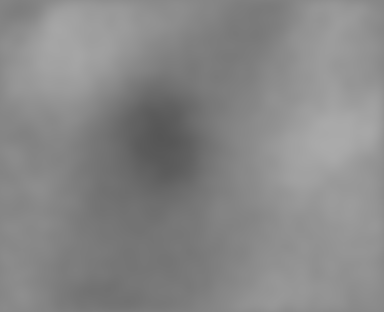
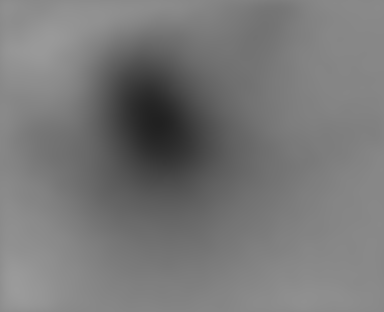
code for response on black background
overlay of response on black background. Lines 203 - 216.

Changed region(s): [[0.1562, 0.0865, 1.0, 0.6635]]

diff --git a/OpticalImaging/analyseninad.m b/OpticalImaging/analyseninad.m
@@ -159,8 +159,8 @@ if join_manual_rois
         jointroi = jointroi | roi{i};
     end
 else
-    jointroi = ( spatialfilter(imresp,2,'pixel')  >0.3)';
-    %jointroi = smoothen(jointroi,5)>0.5;
+    jointroi = ( spatialfilter(imresp,2,'pixel')  >0.4)';
+    %jointroi = smoothen(jointroi,5)>0.6;
     % figure;imagesc(jointroi);
 end
 
@@ -197,3 +197,22 @@ refim(:,:,2)=refim(:,:,2) + data(:,:,2).*jointroi.*imresp';
 refim(:,:,3)=refim(:,:,3) + data(:,:,3).*jointroi.*imresp';
 figure
 image(refim/255);
+
+
+% response only, with black background
+refim=zeros(size(refim));
+jointroi = double(jointroi);
+data = double(data);
+%  refim(:,:,1)=refim(:,:,1).*(1-0.5*jointroi) ;
+%  refim(:,:,2)=refim(:,:,2).*(1-0.5*jointroi) ;
+%  refim(:,:,3)=refim(:,:,3).*(1-0.5*jointroi) ;
+
+refim(:,:,1)=refim(:,:,1) + data(:,:,1).*jointroi.*imresp';
+refim(:,:,2)=refim(:,:,2) + data(:,:,2).*jointroi.*imresp';
+refim(:,:,3)=refim(:,:,3) + data(:,:,3).*jointroi.*imresp';
+figure
+image(refim/255);
+imresppath = fullfile(analysispath,'imresp.png');
+imwrite(refim/255,imresppath);
+
+
